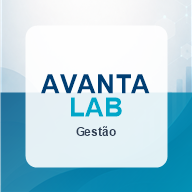
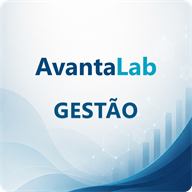
Atualizar icone PWA e imagem de compartilhamento mobile

diff --git a/app/mobile/page.tsx b/app/mobile/page.tsx
@@ -1,8 +1,30 @@
 import type { Metadata, Viewport } from 'next';
 
+const siteUrl = process.env.NEXT_PUBLIC_SITE_URL
+  ? process.env.NEXT_PUBLIC_SITE_URL
+  : process.env.VERCEL_URL
+    ? `https://${process.env.VERCEL_URL}`
+    : 'http://localhost:3000';
+
 export const metadata: Metadata = {
-  title: 'AvantaLab Gestao Mobile',
+  metadataBase: new URL(siteUrl),
+  title: 'AvantaLab Gestão Mobile',
+  description:
+    'Controle entradas, despesas e saldo do seu negócio ou das suas finanças pessoais pelo celular.',
   manifest: '/mobile-manifest.json',
+  openGraph: {
+    title: 'AvantaLab Gestão',
+    description:
+      'Descubra quanto realmente sobra no seu negócio ou nas suas despesas pessoais.',
+    type: 'website',
+    siteName: 'AvantaLab Gestão',
+  },
+  twitter: {
+    card: 'summary_large_image',
+    title: 'AvantaLab Gestão',
+    description:
+      'Controle entradas, despesas e saldo de forma simples pelo celular.',
+  },
   appleWebApp: {
     capable: true,
     statusBarStyle: 'default',

diff --git a/app/mobile/layout.tsx b/app/mobile/layout.tsx
@@ -1,0 +1,19 @@
+import type { Metadata } from 'next';
+
+const siteUrl = process.env.NEXT_PUBLIC_SITE_URL
+  ? process.env.NEXT_PUBLIC_SITE_URL
+  : process.env.VERCEL_URL
+    ? `https://${process.env.VERCEL_URL}`
+    : 'http://localhost:3000';
+
+export const metadata: Metadata = {
+  metadataBase: new URL(siteUrl),
+};
+
+export default function MobileLayout({
+  children,
+}: Readonly<{
+  children: React.ReactNode;
+}>) {
+  return children;
+}

diff --git a/public/mobile-app.js b/public/mobile-app.js
@@ -3628,7 +3628,7 @@
           return Promise.all(
             keys
               .filter(function (key) {
-                return key.indexOf('avantalab-mobile-') === 0 && key !== 'avantalab-mobile-v46';
+                return key.indexOf('avantalab-mobile-') === 0 && key !== 'avantalab-mobile-v47';
               })
               .map(function (key) {
                 return caches.delete(key);

diff --git a/public/mobile-sw.js b/public/mobile-sw.js
@@ -1,4 +1,4 @@
-const CACHE_NAME = 'avantalab-mobile-v46';
+const CACHE_NAME = 'avantalab-mobile-v47';
 const APP_SHELL = [
   '/mobile-app.js?v=51',
   '/mobile-supabase.js',